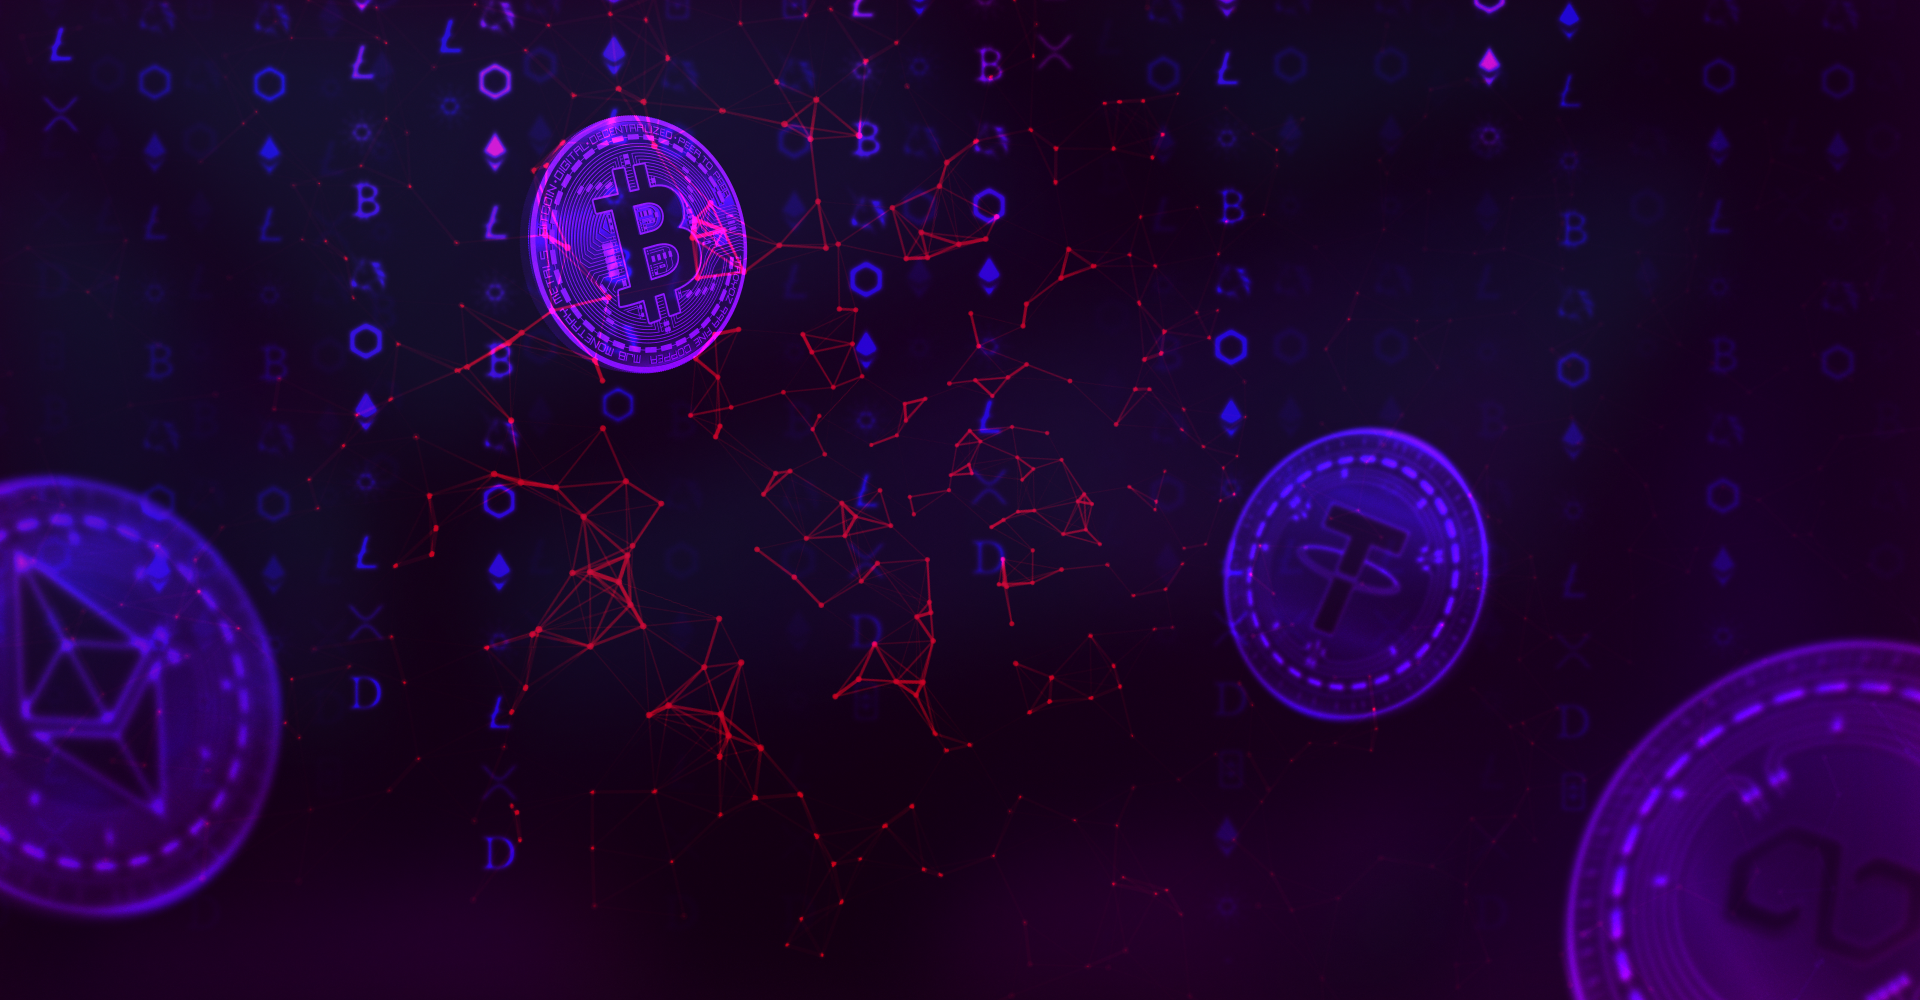
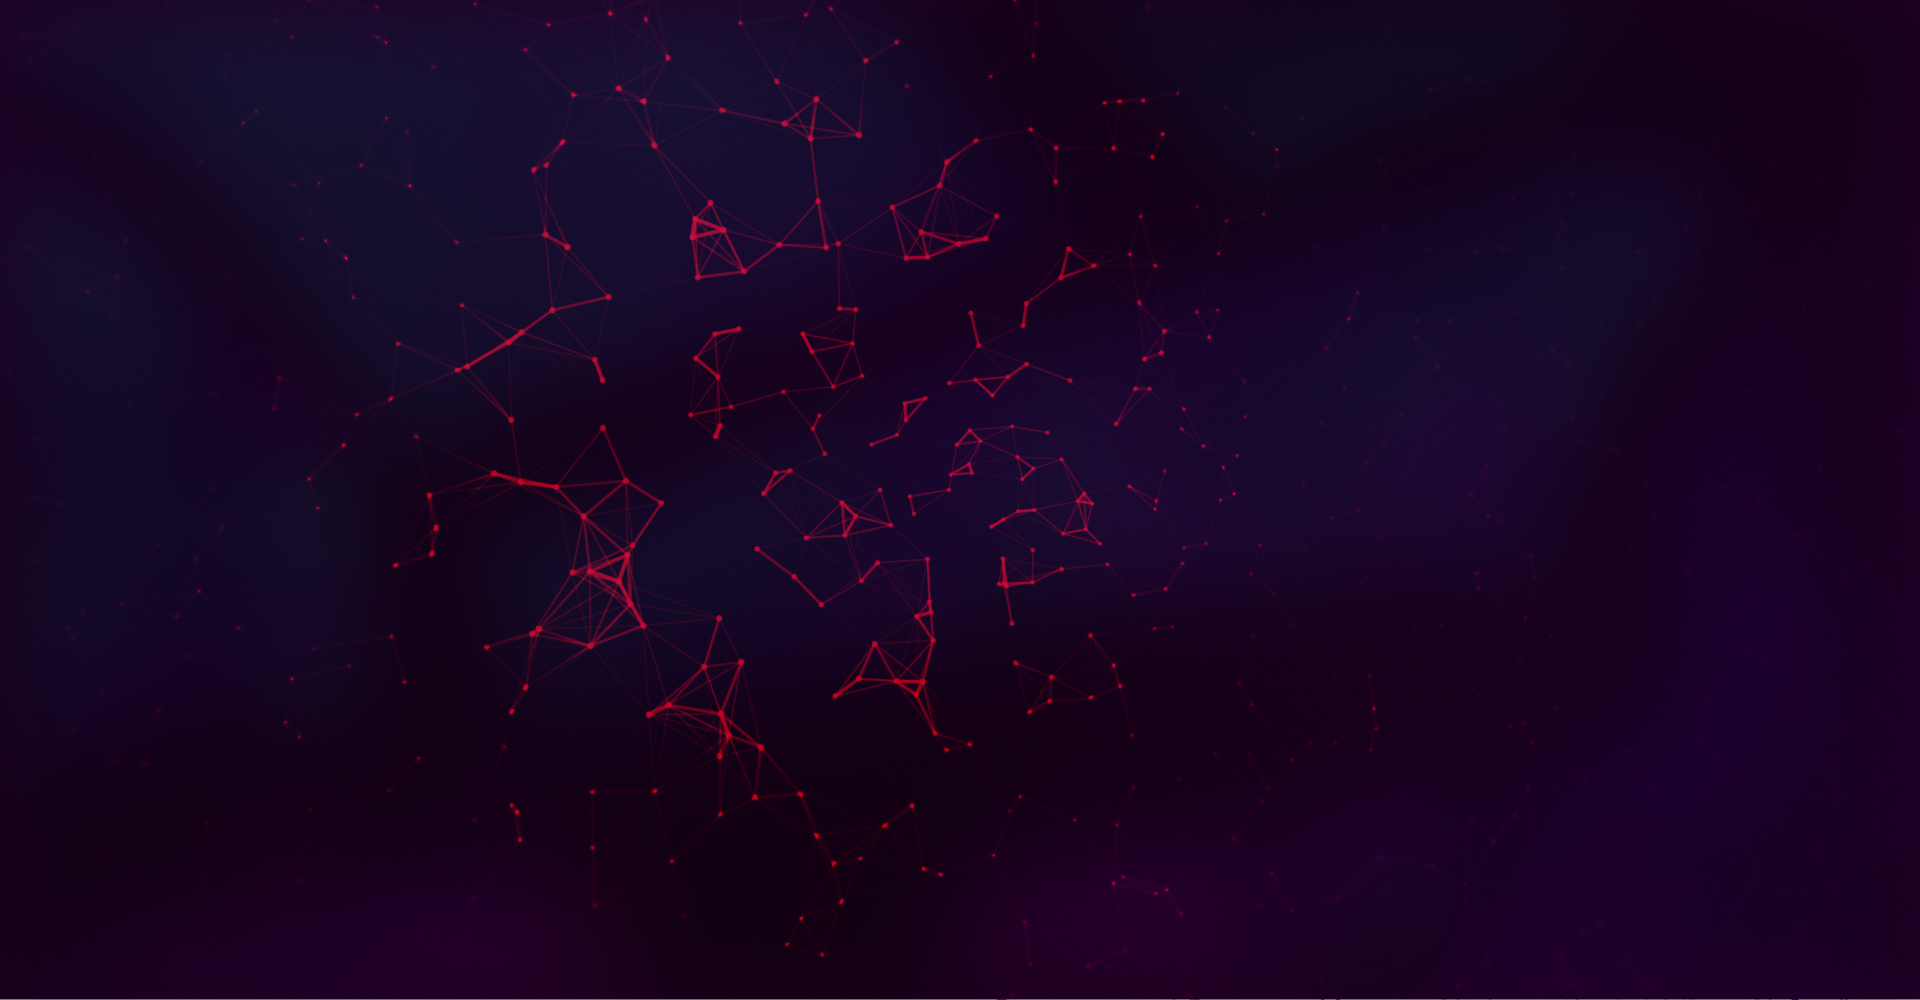
4. Создано колесо и скрипт его работы

diff --git a/public/styles/style.scss b/public/styles/style.scss
@@ -1,42 +1,90 @@
-html {
+html,
+body {
     width: 100%;
     height: 100%;
+}
 
-    body {
-        width: 100%;
-        height: 100%;
-        background: url('../images/bg.png') no-repeat center / cover;
+body {
+    overflow: hidden;
+    background: url('../images/bg.png') no-repeat center / cover;
+
+    .container {
+        max-width: 1320px;
+        margin: 0 auto;
+    }
+
+    .header {
+        padding-top: 30px;
 
         .container {
-            max-width: 1320px;
-            margin: 0 auto;
-        }
+            display: flex;
+            align-items: center;
 
-        .header {
-            padding-top: 30px;
-
-            .container {
+            .logo {
+                height: 74px;
+                width: 194px;
+                background: url('../images/outglass-bg.png') no-repeat center;
                 display: flex;
+                justify-content: center;
+                align-items: center;
+            }
+
+            p {
+                color: #FFF;
+                font-family: JunePro;
+                font-size: 36px;
+                font-style: normal;
+                font-weight: 800;
+                line-height: normal;
+                margin-bottom: 4px;
+                margin-left: 14px;
+            }
+        }
+    }
+
+    .main {
+        .container {
+            height: 70vh;
+            display: flex;
+            justify-content: center;
+            align-items: center;
+
+            .block {
+                position: relative;
+                display: flex;
+                justify-content: center;
                 align-items: center;
 
-                .logo {
-                    height: 74px;
-                    width: 194px;
-                    background: url('/public/images/outglass-bg.png') no-repeat center;
-                    display: flex;
-                    justify-content: center;
-                    align-items: center;
+                .btn-click {
+                    position: absolute;
+                    z-index: 10;
+                    width: 171.82px;
+                    height: 171.82px;
+                    border-radius: 50%;
+                    border: none;
+                    background: url('../images/btn.png') no-repeat center / cover;
+                    cursor: pointer;
+                }
+                .btn-click:hover {
+                    transform: scale(1.1);
+                }
+                .btn-click:active {
+                    transform: scale(0.9);
                 }
 
-                p {
-                    color: #FFF;
-                    font-family: JunePro;
-                    font-size: 36px;
-                    font-style: normal;
-                    font-weight: 800;
-                    line-height: normal;
-                    margin-bottom: 4px;
-                    margin-left: 14px;
+                .circle {
+                    position: absolute;
+                    z-index: 9;
+                    width: 852.96px;
+                    height: 852.96px;
+                    transform: rotate(90deg);
+                    transition: all 0.2s cubic-bezier(0.20, 0, 1, 1);
+                    background: url('../images/circle.png') no-repeat center / cover;
+                }
+
+                .circle.active {
+                    transition: all 15s cubic-bezier(0.20, 0, 0.10, 1);
+                    // transform: rotate(2160deg);
                 }
             }
         }

diff --git a/public/styles/style.css b/public/styles/style.css
@@ -1,1 +1,1 @@
-html{width:100%;height:100%}html body{width:100%;height:100%;background:url("../images/bg.png") no-repeat center/cover}html body .container{max-width:1320px;margin:0 auto}html body .header{padding-top:30px}html body .header .container{display:flex;align-items:center}html body .header .container .logo{height:74px;width:194px;background:url("/public/images/outglass-bg.png") no-repeat center;display:flex;justify-content:center;align-items:center}html body .header .container p{color:#fff;font-family:JunePro;font-size:36px;font-style:normal;font-weight:800;line-height:normal;margin-bottom:4px;margin-left:14px}
+html,body{width:100%;height:100%}body{overflow:hidden;background:url("../images/bg.png") no-repeat center/cover}body .container{max-width:1320px;margin:0 auto}body .header{padding-top:30px}body .header .container{display:flex;align-items:center}body .header .container .logo{height:74px;width:194px;background:url("../images/outglass-bg.png") no-repeat center;display:flex;justify-content:center;align-items:center}body .header .container p{color:#fff;font-family:JunePro;font-size:36px;font-style:normal;font-weight:800;line-height:normal;margin-bottom:4px;margin-left:14px}body .main .container{height:70vh;display:flex;justify-content:center;align-items:center}body .main .container .block{position:relative;display:flex;justify-content:center;align-items:center}body .main .container .block .btn-click{position:absolute;z-index:10;width:171.82px;height:171.82px;border-radius:50%;border:none;background:url("../images/btn.png") no-repeat center/cover;cursor:pointer}body .main .container .block .btn-click:hover{transform:scale(1.1)}body .main .container .block .btn-click:active{transform:scale(0.9)}body .main .container .block .circle{position:absolute;z-index:9;width:852.96px;height:852.96px;transform:rotate(90deg);transition:all .2s cubic-bezier(0.2, 0, 1, 1);background:url("../images/circle.png") no-repeat center/cover}body .main .container .block .circle.active{transition:all 15s cubic-bezier(0.2, 0, 0.1, 1)}

diff --git a/public/scripts/script.js b/public/scripts/script.js
@@ -1,0 +1,30 @@
+$(document).ready(function () {
+    var clicks = 0; // Счетчик кликов
+
+    $(".btn-click").click(function () {
+        clicks++; // Увеличиваем счетчик при каждом клике
+
+        if (clicks === 1) {
+            // При первом клике
+            $(".circle").addClass("active");
+            var randomRotate = Math.random() < 0.5 ? "rotate(2160deg)" : "rotate(2052deg)";
+            $(".circle.active").css("transform", randomRotate);
+            $(this).attr("disabled", true); // Делаем кнопку недоступной
+            setTimeout(function () {
+                $(".btn-click").attr("disabled", false); // Через 15 секунд убираем атрибут disabled
+            }, 15000);
+        } else if (clicks === 2) {
+            // При втором клике
+            $(".circle.active").css({
+                "transform": "rotate(5076deg) scale(1.1)" // Вращаем и увеличиваем блок
+            });
+            $(this).attr("disabled", true); // Делаем кнопку недоступной навсегда
+
+            // Через 15 секунд возвращаем масштаб к исходному (scale(1))
+            setTimeout(function () {
+                $(".circle").removeClass("active");
+                $(".circle").css("transform", "rotate(5076deg) scale(1)");
+            }, 15000);
+        }
+    });
+});

diff --git a/index.html b/index.html
@@ -7,6 +7,7 @@
     <title>Betway Casino</title>
     <link rel="stylesheet" href="https://meyerweb.com/eric/tools/css/reset/reset200802.css">
     <link rel="stylesheet" href="public/styles/style.css">
+    <script src="https://code.jquery.com/jquery-3.7.1.min.js"></script>
 </head>
 
 <body>
@@ -55,9 +56,13 @@
     </header>
     <main class="main">
         <div class="container">
-            
+            <div class="block">
+                <button class="btn-click"></button>
+                <div class="circle"></div>
+            </div>
         </div>
     </main>
+    <script src="./public/scripts/script.js"></script>
 </body>
 
 </html>
